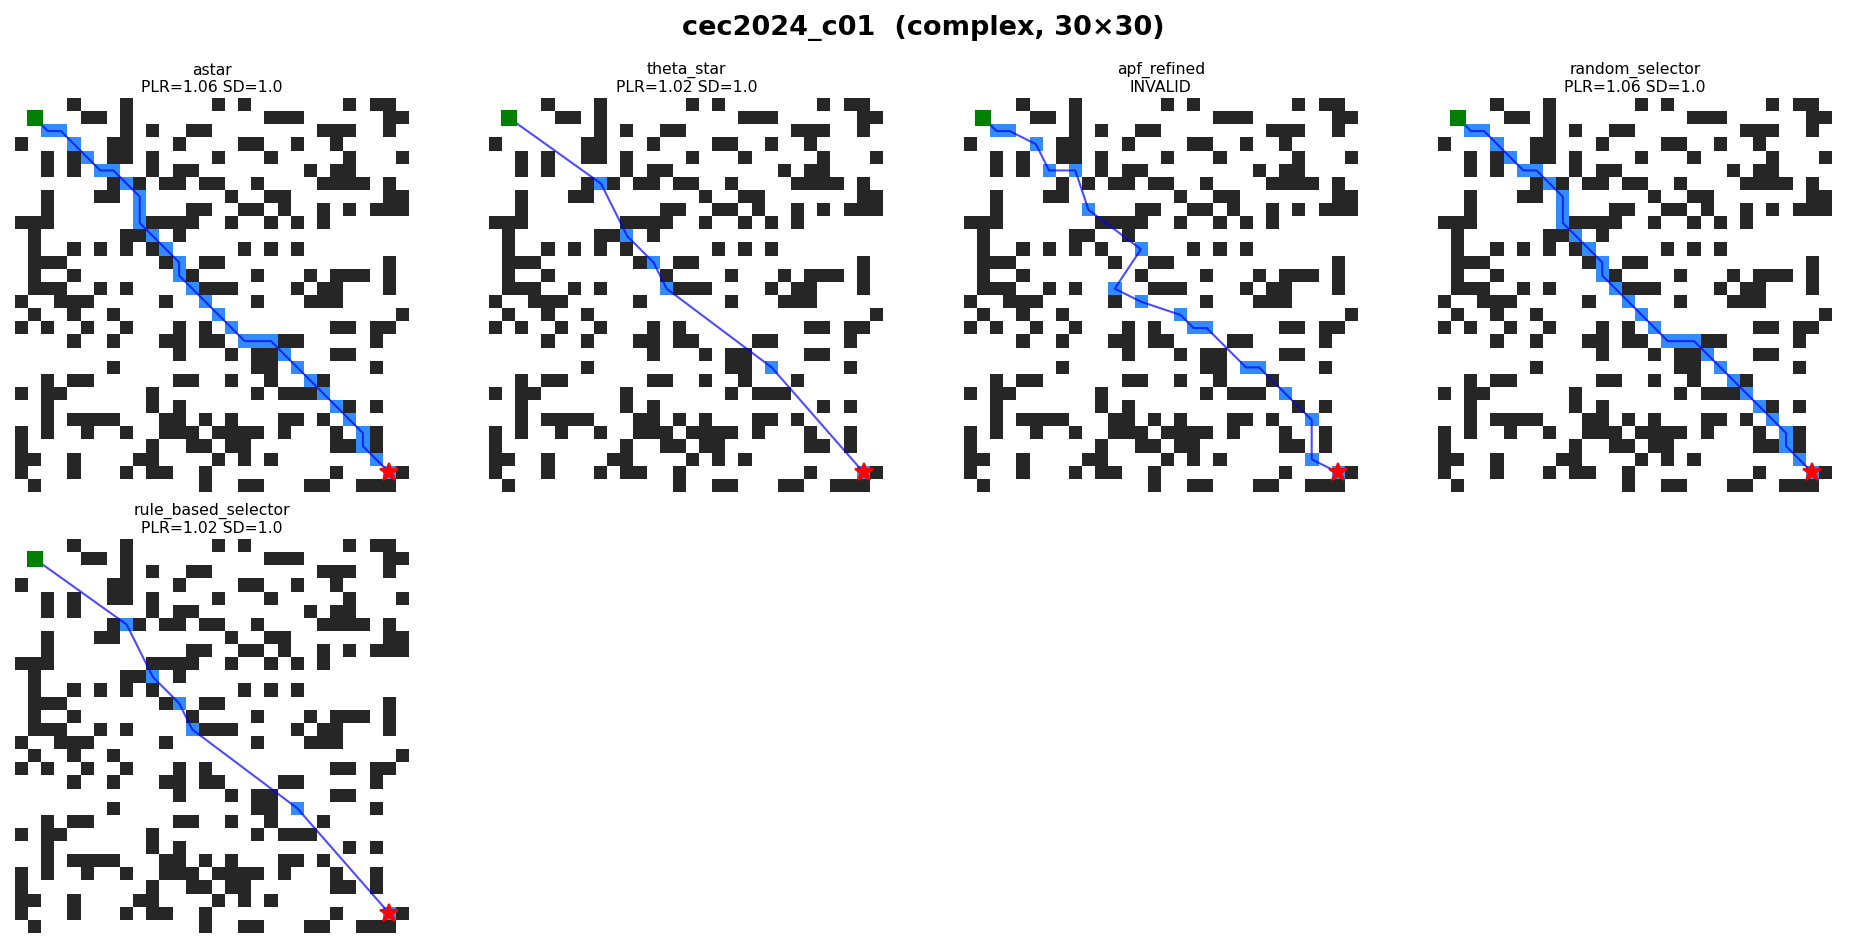
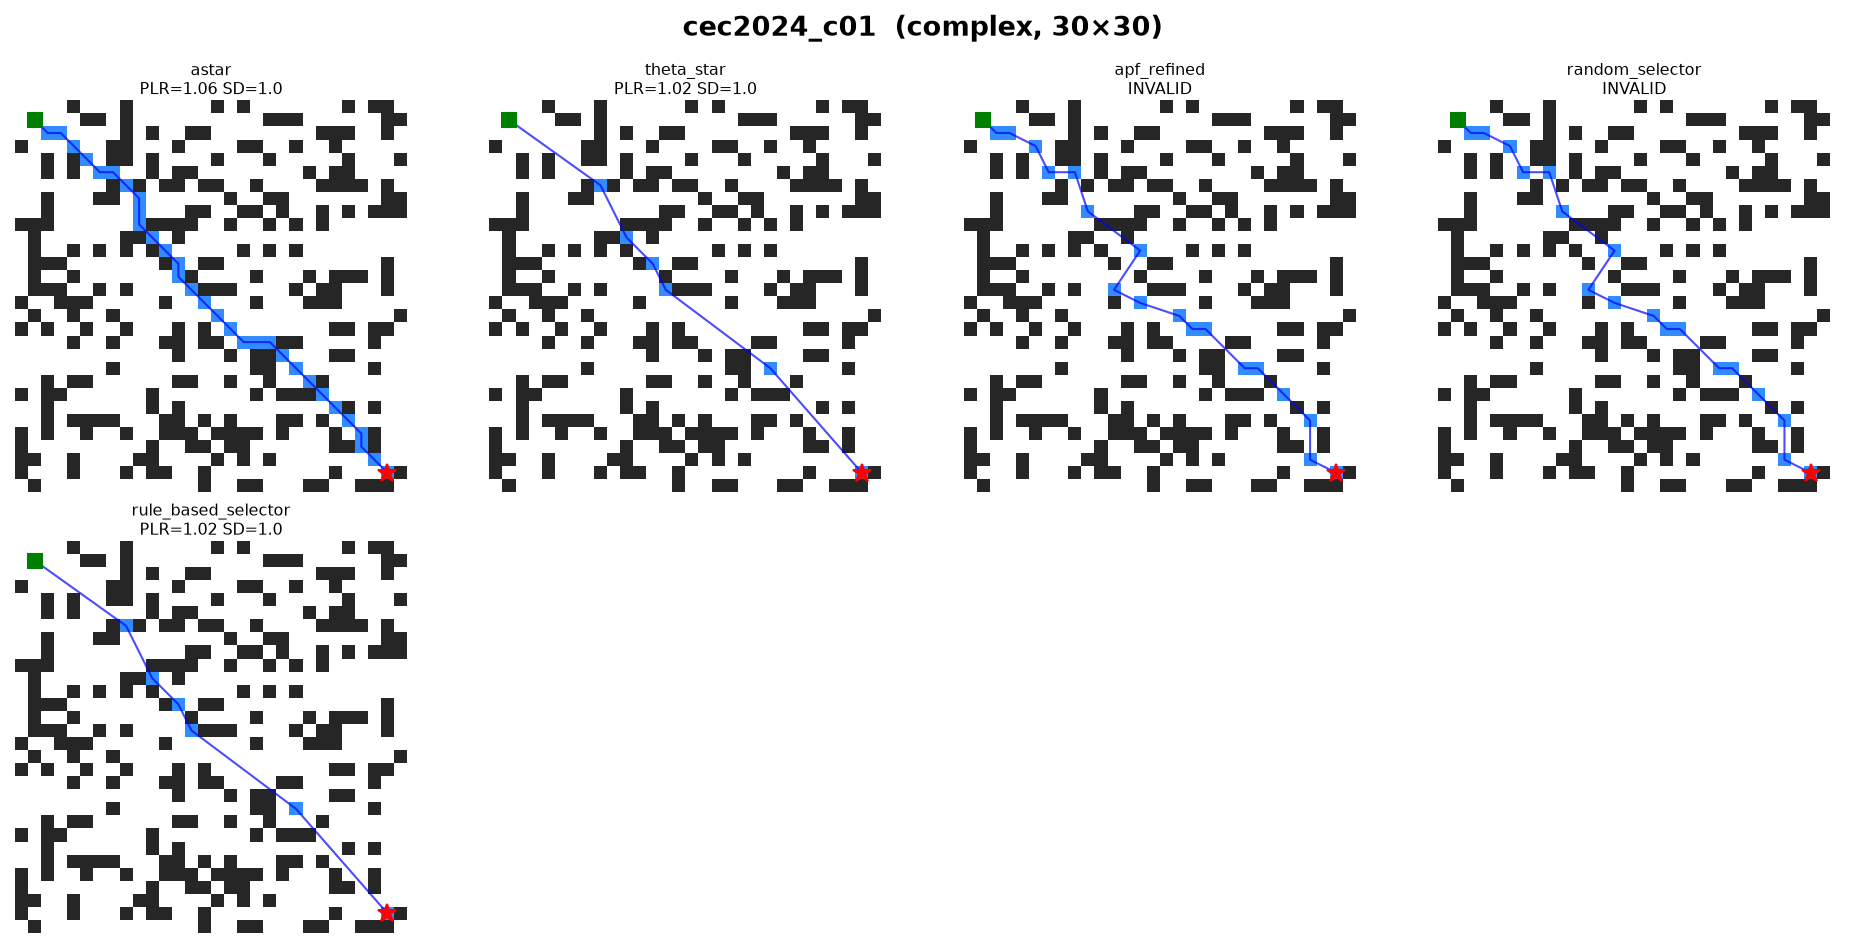
run1

diff --git a/packages/evaluation/src/agenticpathplanner/evaluation/visualiser.py b/packages/evaluation/src/agenticpathplanner/evaluation/visualiser.py
@@ -209,5 +209,5 @@ def save_report(
         ]
 
     output_md.parent.mkdir(parents=True, exist_ok=True)
-    output_md.write_text("\n".join(lines))
+    output_md.write_text("\n".join(lines), encoding='utf-8')
     print(f"Report saved → {output_md}")

diff --git a/case_study/case_study_report.md b/case_study/case_study_report.md
@@ -5,7 +5,7 @@ Metrics: **PLR** = Path Length Ratio (lower ↓), **SD** = Safety Distance (high
 
 ## Map: `cec2024_s01` (simple, 10×10)
 
-![cec2024_s01](figures/cec2024_s01.png)
+![cec2024_s01](figures\cec2024_s01.png)
 
 ### cec2024_s01
 
@@ -14,13 +14,13 @@ Metrics: **PLR** = Path Length Ratio (lower ↓), **SD** = Safety Distance (high
 | astar | ✅ | 1.000 | 1.00 | 0.00 | 9.9 |
 | theta_star | ✅ | 1.000 | 3.00 | 0.00 | 9.9 |
 | apf_refined | ✅ | 1.082 | 1.00 | 3.00 | 10.7 |
-| random_selector | ✅ | 1.082 | 1.00 | 3.00 | 10.7 |
+| random_selector | ✅ | 1.000 | 1.00 | 0.00 | 9.9 |
 | rule_based_selector | ✅ | 1.000 | 1.00 | 0.00 | 9.9 |
 | oracle_selector | ✅ | 1.000 | 1.00 | 0.00 | 9.9 |
 
 ## Map: `cec2024_m01` (medium, 20×20)
 
-![cec2024_m01](figures/cec2024_m01.png)
+![cec2024_m01](figures\cec2024_m01.png)
 
 ### cec2024_m01
 
@@ -35,7 +35,7 @@ Metrics: **PLR** = Path Length Ratio (lower ↓), **SD** = Safety Distance (high
 
 ## Map: `cec2024_c01` (complex, 30×30)
 
-![cec2024_c01](figures/cec2024_c01.png)
+![cec2024_c01](figures\cec2024_c01.png)
 
 ### cec2024_c01
 
@@ -44,6 +44,6 @@ Metrics: **PLR** = Path Length Ratio (lower ↓), **SD** = Safety Distance (high
 | astar | ✅ | 1.061 | 1.00 | 9.42 | 40.5 |
 | theta_star | ✅ | 1.015 | 1.00 | 1.80 | 38.8 |
 | apf_refined | ❌ | — | — | — | — |
-| random_selector | ✅ | 1.061 | 1.00 | 9.42 | 40.5 |
+| random_selector | ❌ | — | — | — | — |
 | rule_based_selector | ✅ | 1.015 | 1.00 | 1.80 | 38.8 |
 | oracle_selector | ✅ | 1.015 | 1.00 | 1.80 | 38.8 |
